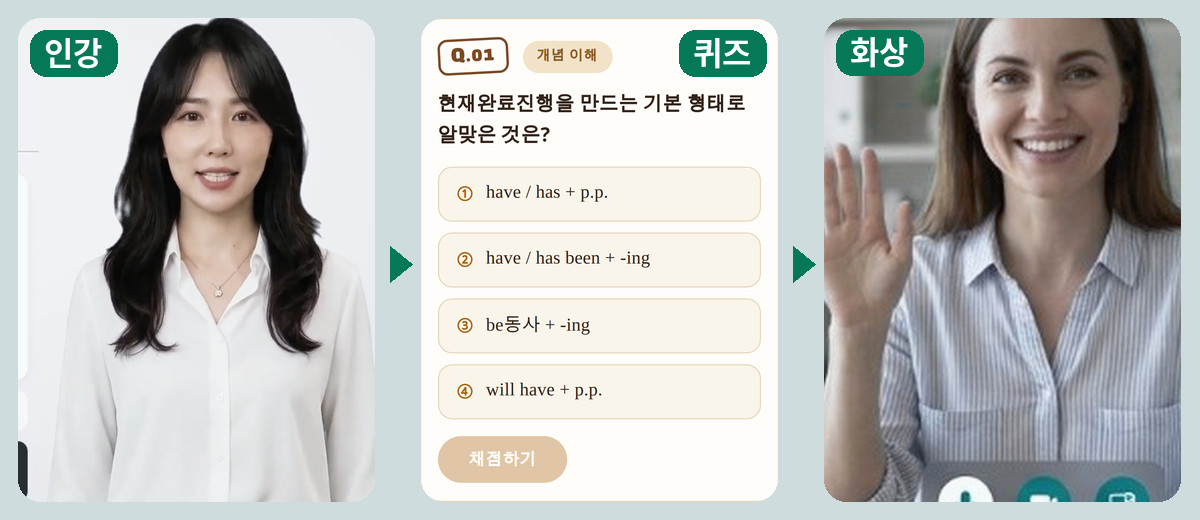
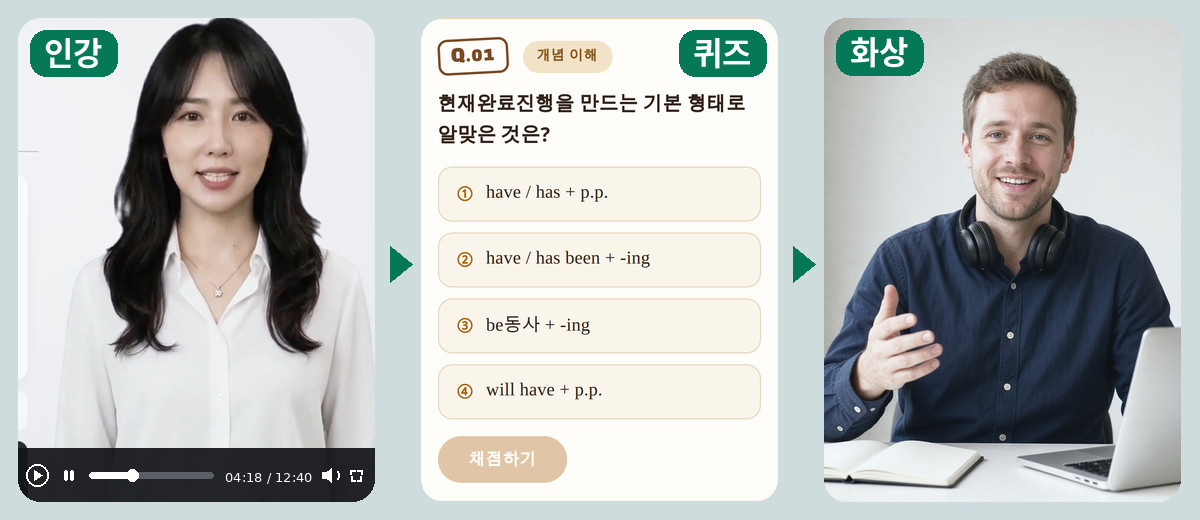
2번 화상 수업을 같은 남자 원어민 사진으로 맞춘다.
카드와 안내 화면의 화상 자리를 3번과 같은 원어민으로 바꾸고, 상품 설명을 맞추며 인강 아래에는 재생과 일시정지 막대를 둔다.

Changed region(s): [[0.6783, 0.0308, 0.9867, 0.9846], [0.0, 0.8615, 0.3392, 0.9846]]

diff --git a/lib/pages/SchoolOnlineCurriculumPage.dart b/lib/pages/SchoolOnlineCurriculumPage.dart
@@ -300,7 +300,7 @@ class _SchoolOnlineCurriculumPageState
       OnlinePlanCard(
         index: '1',
         title: '단계별 영문법 인강',
-        summary: '문법 빌드업과 유용한 표현. 퀴즈로 완성합니다.',
+        summary: '인강으로 문법 빌드업, 유용한 표현을 배우고, 퀴즈로 최종 정리합니다.',
         priceLine: '레벨별 안내 99,000원~',
         color: Palette.primary,
         imageAsset: 'assets/plan-card-lecture.jpg',
@@ -310,7 +310,7 @@ class _SchoolOnlineCurriculumPageState
       OnlinePlanCard(
         index: '2',
         title: '영문법 인강 + 원어민 화상 회화',
-        summary: '인강과 퀴즈를 다지고, 1:1 화상으로 말합니다.',
+        summary: '인강을 듣고, 퀴즈로 다지고, 1:1 화상으로 실사용해봅니다.',
         priceLine: '레벨별 180,000원~',
         color: Palette.secondaryDark,
         imageAsset: 'assets/plan-card-bundle.jpg',
@@ -321,7 +321,7 @@ class _SchoolOnlineCurriculumPageState
       OnlinePlanCard(
         index: '3',
         title: '원어민 화상 1:1 회화',
-        summary: '인강 없이, 나에게만 집중하는 실전 회화.',
+        summary: '실전 원어민 회화.',
         priceLine: '1회 ${OnlinePlan.won(OnlinePlan.speakingSessionPrice)}',
         color: Palette.accent,
         imageAsset: 'assets/plan-card-speaking.jpg',
@@ -383,7 +383,7 @@ class _SchoolOnlineCurriculumPageState
           ),
           SizedBox(height: 8),
           Text(
-            '실제 인강 화면입니다.',
+            '녹화해 둔 인강입니다. 재생과 일시정지로 봅니다.',
             style: TextStyle(
               fontFamily: 'NotoSansKR',
               fontSize: 12,
@@ -393,8 +393,8 @@ class _SchoolOnlineCurriculumPageState
           ),
           SizedBox(height: 16),
           bodyText(
-            '철저한 문법 빌드업과 유용한 영어 표현을 풀어 주는 인강입니다.\n'
-            '퀴즈로 문법을 완성하고, 원어민 화상은 포함되지 않습니다.\n'
+            '인강으로 문법 빌드업, 유용한 표현을 배우고, 퀴즈로 최종 정리합니다.\n'
+            '원어민 화상은 포함되지 않습니다.\n'
             '레벨마다 인강 ${OnlinePlan.lessonsPerLevel}편을 기준으로 하고, 강의실에는 등록된 편부터 열립니다.\n'
             '수강 기간은 ${OnlinePlan.lectureAccessWeeks}주입니다.',
           ),
@@ -440,7 +440,7 @@ class _SchoolOnlineCurriculumPageState
           sectionTitle('2. 영문법 인강 + 원어민 화상 회화'),
           SizedBox(height: 8),
           bodyText(
-            '인강과 퀴즈로 다지고, 1:1 원어민 화상으로 완성하는 실전 영어입니다.\n'
+            '인강을 듣고, 퀴즈로 다지고, 1:1 화상으로 실사용해봅니다.\n'
             '지금 판매 중인 구성이며, 화상수업 ${OnlineCourse.all.first.defaultSessions}회가 포함됩니다.',
           ),
           SizedBox(height: 20),
@@ -522,7 +522,7 @@ class _SchoolOnlineCurriculumPageState
           sectionTitle('3. 원어민 화상 1:1 회화'),
           SizedBox(height: 12),
           bodyText(
-            '오직 나에게만 집중하는 실전 1:1 영어 회화입니다.\n'
+            '실전 원어민 회화.\n'
             '인강과 퀴즈는 없고, 고른 원어민과 회화만 진행합니다.\n'
             '1회 ${OnlinePlan.won(OnlinePlan.speakingSessionPrice)}이며, 횟수를 고르면 금액이 정해집니다.',
           ),
